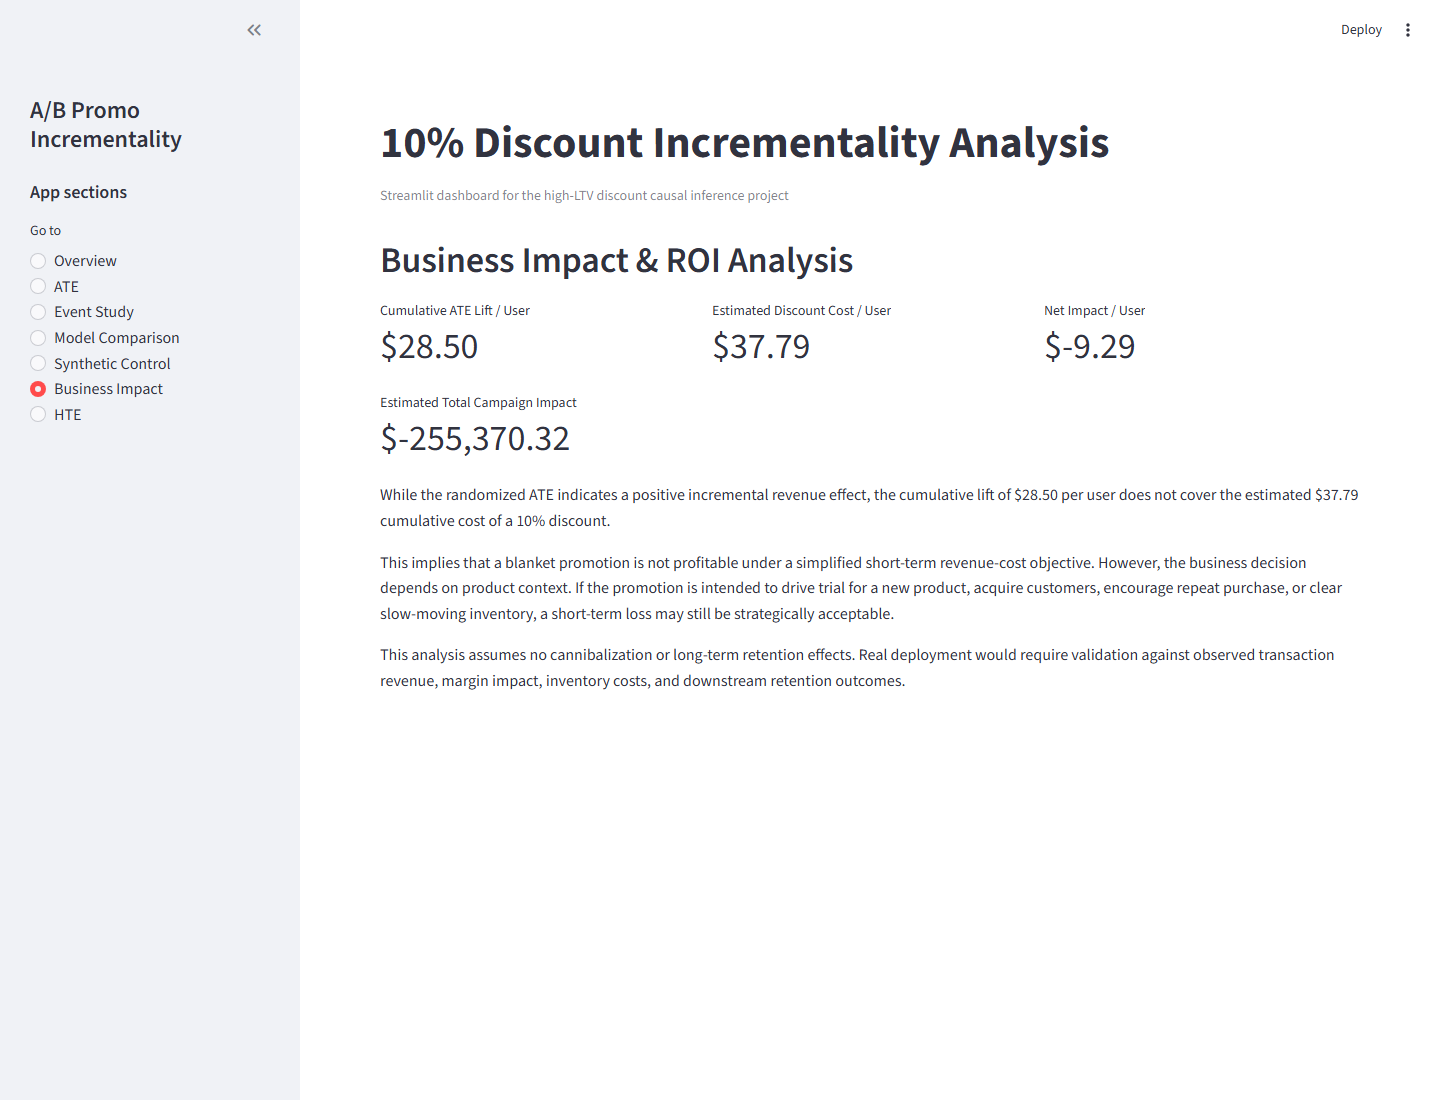
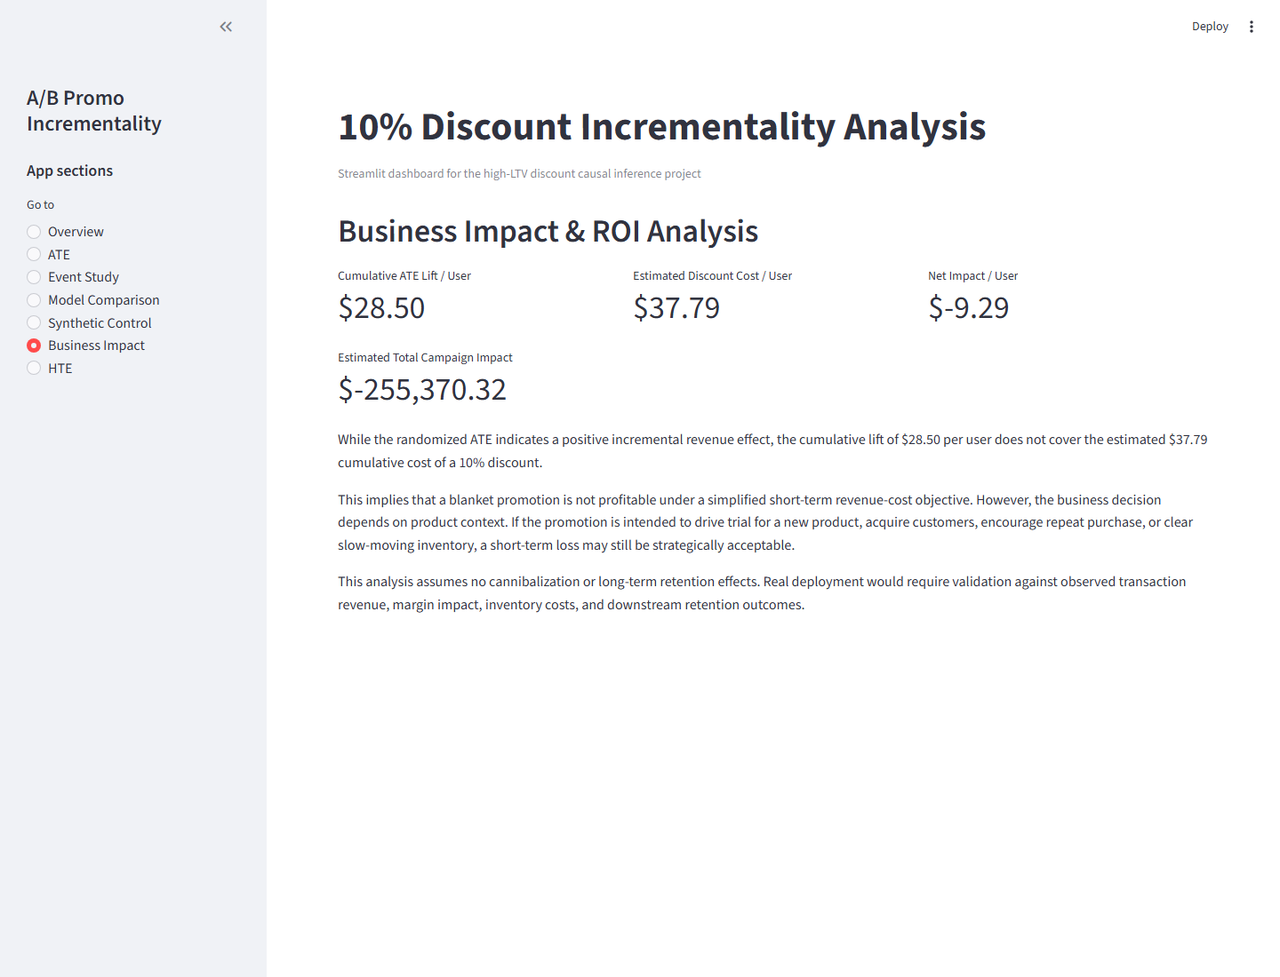
Repo polish: remove .claude from gitignore, fix screenshot sizes, clean README wording

Changed region(s): [[0.0625, 0.3071, 0.0938, 0.3378]]

diff --git a/README.md b/README.md
@@ -1,6 +1,6 @@
 # A/B Promotion Incrementality Analysis
 
-This project estimates whether a simulated 10% discount for high-LTV users creates incremental revenue. It uses an A/B testing workflow, a Python notebook, and a Streamlit dashboard to turn the analysis into a recruiter-friendly business recommendation.
+This project estimates whether a simulated 10% discount for high-LTV users creates incremental revenue. It uses an A/B testing workflow, a Python notebook, and a Streamlit dashboard to connect the statistical results to a clear business recommendation.
 
 > **Data note:** Revenue is simulated. An 8% uplift is applied to treated high-LTV users in the post-period, so results should be read as a portfolio experiment simulation rather than observed discount-redemption evidence.
 